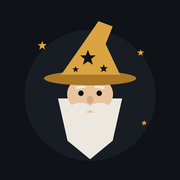
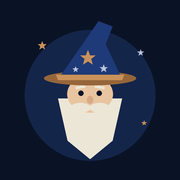
Ambiance bleu nuit et bronze, ciel étoilé, titres façon grimoire ; icône assortie
Claude-Session: https://claude.ai/code/session_0114Tvvdi8EPsuvD3sSx97T8

diff --git a/index.html b/index.html
@@ -3,7 +3,7 @@
 <head>
 <meta charset="utf-8">
 <meta name="viewport" content="width=device-width, initial-scale=1, viewport-fit=cover">
-<meta name="theme-color" content="#0f1216">
+<meta name="theme-color" content="#0a1325">
 <meta name="apple-mobile-web-app-capable" content="yes">
 <meta name="apple-mobile-web-app-status-bar-style" content="black-translucent">
 <title>Merlin</title>
@@ -12,14 +12,15 @@
 <link rel="icon" href="icon-192.png">
 <link rel="preconnect" href="https://fonts.googleapis.com">
 <link rel="preconnect" href="https://fonts.gstatic.com" crossorigin>
-<link href="https://fonts.googleapis.com/css2?family=Manrope:wght@400;500;600;700&family=IBM+Plex+Mono:wght@400;500;600&display=swap" rel="stylesheet">
+<link href="https://fonts.googleapis.com/css2?family=Cinzel:wght@500;600;700&family=Manrope:wght@400;500;600;700&family=IBM+Plex+Mono:wght@400;500;600&display=swap" rel="stylesheet">
 <style>
-/* Carnet de marché : fond encre, chiffres en mono, accent laiton. */
+/* Bibliothèque de nuit : bleu nuit, bronze, ciel étoilé ; titres façon grimoire, chiffres en mono. */
 :root{
-  --bg:#0f1216; --panel:#171b21; --panel2:#1e232b; --line:#2a313b;
-  --fg:#e9e6df; --dim:#9aa1ab; --faint:#6b737e;
-  --brass:#d9a441; --brass-soft:rgba(217,164,65,.14);
-  --up:#4cc38a; --down:#f07167; --warn:#e9b949;
+  --bg:#0a1325; --panel:#101c35; --panel2:#15244a; --line:#233766;
+  --fg:#ece6d6; --dim:#a7b2cc; --faint:#6f7fa3;
+  --brass:#c9925a; --brass-soft:rgba(201,146,90,.14);
+  --up:#5cc8a1; --down:#f07167; --warn:#e0b45c;
+  --serif:'Cinzel','Trajan Pro',Georgia,serif;
   --sans:'Manrope',system-ui,-apple-system,'Segoe UI',sans-serif;
   --mono:'IBM Plex Mono',ui-monospace,'SFMono-Regular',Menlo,monospace;
   --r:12px; --gap:12px;
@@ -38,7 +39,7 @@ header.top h1{margin:0;font-size:17px;font-weight:700;letter-spacing:.01em;flex:
 header.top h1 span{color:var(--brass)}
 .sync{font-size:12px;color:var(--dim);background:var(--panel);border:1px solid var(--line);border-radius:999px;padding:5px 10px;cursor:pointer;white-space:nowrap}
 .conn{border-radius:10px;padding:12px;display:flex;flex-direction:column;gap:4px;font-size:14px;line-height:1.45;border:1px solid var(--line);background:var(--panel2)}
-.conn.ok{border-color:rgba(76,195,138,.5);background:rgba(76,195,138,.08)} .conn.bad{border-color:rgba(240,113,103,.55);background:rgba(240,113,103,.08)}
+.conn.ok{border-color:rgba(92,200,161,.5);background:rgba(92,200,161,.08)} .conn.bad{border-color:rgba(240,113,103,.55);background:rgba(240,113,103,.08)}
 .conn b{font-size:15px}
 .banner{display:flex;gap:10px;align-items:center;justify-content:space-between;border:1px solid rgba(240,113,103,.55);background:rgba(240,113,103,.08);border-radius:var(--r);padding:12px 14px;font-size:14px;line-height:1.4}
 details.zone{border:1px solid var(--line);border-radius:10px;padding:10px 12px}
@@ -94,13 +95,13 @@ table.pos tr.click{cursor:pointer} table.pos tr.click:hover td{background:var(--
 .li .d{font-family:var(--mono);font-size:12px;color:var(--faint)}
 .li .m{min-width:0} .li .m b{display:block} .li .m span{color:var(--dim);font-size:13px;display:block;overflow:hidden;text-overflow:ellipsis;white-space:nowrap}
 .note{font-size:13px;color:var(--dim);line-height:1.5;margin:0}
-.callout{background:var(--brass-soft);border:1px solid rgba(217,164,65,.35);border-radius:10px;padding:10px 12px;font-size:14px;line-height:1.45}
+.callout{background:var(--brass-soft);border:1px solid rgba(201,146,90,.35);border-radius:10px;padding:10px 12px;font-size:14px;line-height:1.45}
 label.f{display:flex;flex-direction:column;gap:5px;font-size:13px;color:var(--dim)}
 label.f input,label.f select,label.f textarea{background:var(--panel2);border:1px solid var(--line);border-radius:9px;padding:10px 11px;color:var(--fg);font-size:15px;width:100%}
 label.f textarea{min-height:90px;resize:vertical}
 .grid2{display:grid;grid-template-columns:repeat(2,minmax(0,1fr));gap:10px}
 .sim .out{display:grid;grid-template-columns:repeat(3,minmax(0,1fr));gap:8px}
-nav.tabs{position:fixed;left:0;right:0;bottom:0;z-index:6;background:rgba(15,18,22,.96);backdrop-filter:blur(8px);border-top:1px solid var(--line);
+nav.tabs{position:fixed;left:0;right:0;bottom:0;z-index:6;background:rgba(10,19,37,.94);backdrop-filter:blur(8px);border-top:1px solid var(--line);
   display:grid;grid-template-columns:repeat(5,1fr);padding:6px max(6px,env(safe-area-inset-right,0px)) calc(6px + env(safe-area-inset-bottom,0px)) max(6px,env(safe-area-inset-left,0px))}
 nav.tabs button{background:none;border:0;color:var(--faint);display:flex;flex-direction:column;align-items:center;gap:3px;font-size:11px;font-weight:600;padding:6px 0;cursor:pointer;position:relative}
 nav.tabs button svg{width:22px;height:22px}
@@ -113,6 +114,21 @@ dialog h3{margin:0;font-size:17px}
 .toast{position:fixed;left:50%;bottom:calc(84px + env(safe-area-inset-bottom,0px));transform:translateX(-50%);background:var(--panel2);border:1px solid var(--line);padding:9px 14px;border-radius:10px;font-size:14px;z-index:20}
 .empty{color:var(--dim);font-size:14px;text-align:center;padding:24px 8px;line-height:1.5}
 @media (prefers-reduced-motion:no-preference){.card,.idea{animation:in .25s ease-out both}@keyframes in{from{opacity:.4;transform:translateY(4px)}to{opacity:1;transform:none}}}
+.card h2,.empty b{font-family:var(--serif);letter-spacing:.12em}
+header.top h1{font-family:var(--serif);font-weight:700;letter-spacing:.08em;font-size:19px}
+body{background:
+  radial-gradient(1px 1px at 12% 18%,rgba(236,230,214,.55) 50%,transparent 51%),
+  radial-gradient(1px 1px at 78% 9%,rgba(236,230,214,.45) 50%,transparent 51%),
+  radial-gradient(1.5px 1.5px at 63% 41%,rgba(201,146,90,.5) 50%,transparent 51%),
+  radial-gradient(1px 1px at 33% 67%,rgba(236,230,214,.35) 50%,transparent 51%),
+  radial-gradient(1px 1px at 88% 76%,rgba(236,230,214,.4) 50%,transparent 51%),
+  radial-gradient(1.5px 1.5px at 7% 88%,rgba(184,196,220,.45) 50%,transparent 51%),
+  radial-gradient(1200px 600px at 50% -10%,#14254a 0%,transparent 70%),
+  var(--bg);background-attachment:fixed}
+.card{background:linear-gradient(180deg,rgba(21,36,74,.55),rgba(16,28,53,.92));border-color:var(--line);box-shadow:inset 0 1px 0 rgba(201,146,90,.10)}
+.hero{border-color:rgba(201,146,90,.35)}
+.hero .big{color:var(--fg)}
+nav.tabs{border-top-color:rgba(201,146,90,.25)}
 </style>
 </head>
 <body>
@@ -152,7 +168,7 @@ dialog h3{margin:0;font-size:17px}
     <div class="card">
       <div class="row" style="justify-content:space-between"><h2>Évolution</h2>
         <div class="seg" id="ev-per" role="group" aria-label="Période"><button data-d="0" class="on">Tout</button><button data-d="365">1 A</button><button data-d="90">3 M</button></div></div>
-      <div class="row" style="gap:14px;font-size:12px"><span><i style="display:inline-block;width:14px;height:3px;background:#d9a441;vertical-align:middle;border-radius:2px"></i> Valeur</span><span class="dim"><i style="display:inline-block;width:14px;height:0;border-top:2px dashed #6b737e;vertical-align:middle"></i> Euros investis (net)</span><span style="color:#7aa2f7"><i style="display:inline-block;width:14px;height:2px;background:#7aa2f7;vertical-align:middle;border-radius:2px"></i> Cours du BTC</span></div>
+      <div class="row" style="gap:14px;font-size:12px"><span><i style="display:inline-block;width:14px;height:3px;background:#c9925a;vertical-align:middle;border-radius:2px"></i> Valeur</span><span class="dim"><i style="display:inline-block;width:14px;height:0;border-top:2px dashed #6f7fa3;vertical-align:middle"></i> Euros investis (net)</span><span style="color:#b8c4dc"><i style="display:inline-block;width:14px;height:2px;background:#b8c4dc;vertical-align:middle;border-radius:2px"></i> Cours du BTC</span></div>
       <div id="spark" style="position:relative"></div>
       <div class="rd num faint" id="ev-rd" style="font-size:12px;min-height:16px"></div>
     </div>
@@ -413,7 +429,7 @@ function renderHome(){
   var rs=rows().filter(function(r){return r.val>1;});var mx=rs.length?rs[0].val:1;
   $('compo').innerHTML=rs.map(function(r){return'<div class="bar"><span>'+esc(r.p.actif)+'</span><span class="num">'+eur(r.val)+' <span class="faint">· '+Math.round(r.val/t*100)+' %</span></span><span class="t"><i style="width:'+(r.val/mx*100)+'%"></i></span></div>';}).join('')||'<div class="empty">Aucune position. Connecte GitHub dans les réglages.</div>';
   var pi=pocketStats('investissement'),pt=pocketStats('trading'),tt=pi.val+pt.val||1,ru=realiseUsd();
-  $('poches').innerHTML=[['Investissement',pi,'#d9a441',''],['Trading',pt,'#4cc38a',' · réalisé '+(ru>=0?'+':'')+usd(ru)]].map(function(x){var st=x[1];
+  $('poches').innerHTML=[['Investissement',pi,'#c9925a',''],['Trading',pt,'#5cc8a1',' · réalisé '+(ru>=0?'+':'')+usd(ru)]].map(function(x){var st=x[1];
     return'<div class="bar"><span>'+x[0]+' <span class="'+(st.latentPct==null?'faint':st.latentPct>=0?'up':'down')+' num" style="font-size:12px">'+pct(st.latentPct)+'</span><span class="faint" style="font-size:12px">'+x[3]+'</span></span><span class="num">'+eur(st.val)+' <span class="faint">· '+Math.round(st.val/tt*100)+' %</span></span><span class="t"><i style="width:'+(st.val/tt*100)+'%;background:'+x[2]+'"></i></span></div>';}).join('');
   renderEvo();
 }
@@ -441,7 +457,7 @@ function renderEvo(){
   var X=function(d){return 4+(+new Date(d)-t0)/ts*(W-8);},Y=function(v){return H-4-v/mx*(H-10);};
   var dv='M'+h.map(function(p){return X(p.date).toFixed(1)+' '+Y(p.val).toFixed(1);}).join(' L');
   var dm='M'+h.map(function(p,i){var s=X(p.date).toFixed(1)+' '+Y(p.mise).toFixed(1);return i?'H'+X(p.date).toFixed(1)+' V'+Y(p.mise).toFixed(1):s;}).join(' ');
-  var grid=ticks.map(function(tv){var y=Y(tv);return'<line x1="0" x2="'+W+'" y1="'+y+'" y2="'+y+'" stroke="#232932" stroke-width="1" vector-effect="non-scaling-stroke"/>';}).join('');
+  var grid=ticks.map(function(tv){var y=Y(tv);return'<line x1="0" x2="'+W+'" y1="'+y+'" y2="'+y+'" stroke="#1b2b52" stroke-width="1" vector-effect="non-scaling-stroke"/>';}).join('');
   var hb=h.filter(function(p){return p.btc;});var bmxRaw=hb.length?Math.max.apply(0,hb.map(function(p){return p.btc;})):0;
   var bstp=bmxRaw?(function(v){var e=Math.pow(10,Math.floor(Math.log10(v/4)));var f=v/4/e;return(f<=1?1:f<=2?2:f<=2.5?2.5:f<=5?5:10)*e;})(bmxRaw):1;
   var YB=Y;
@@ -450,11 +466,11 @@ function renderEvo(){
   var blabels='';
   var labels=ticks.concat([0]).map(function(tv){return'<span style="position:absolute;left:0;top:calc('+(Y(tv)/H*100)+'% - 8px);font-family:var(--mono);font-size:10px;color:var(--faint);background:var(--panel);padding:0 3px 0 0;pointer-events:none">'+fk(tv)+'</span>';}).join('');
   $('spark').innerHTML='<svg class="spark" style="height:150px;touch-action:pan-y" viewBox="0 0 '+W+' '+H+'" preserveAspectRatio="none" role="img" aria-label="Évolution de la valeur et des euros investis">'+grid+
-    '<path d="'+dv+' L'+X(h[h.length-1].date)+' '+H+' L'+X(h[0].date)+' '+H+' Z" fill="rgba(217,164,65,.12)"/>'+
-    '<path d="'+dm+'" fill="none" stroke="#6b737e" stroke-width="1.5" stroke-dasharray="5 4" vector-effect="non-scaling-stroke"/>'+
-    (db?'<path d="'+db+'" fill="none" stroke="#7aa2f7" stroke-width="1.5" stroke-opacity=".85" stroke-linejoin="round" vector-effect="non-scaling-stroke"/>':'')+
-    '<path d="'+dv+'" fill="none" stroke="#d9a441" stroke-width="2" stroke-linejoin="round" stroke-linecap="round" vector-effect="non-scaling-stroke"/>'+
-    '<line id="ev-cur" x1="0" x2="0" y1="0" y2="'+H+'" stroke="#9aa1ab" stroke-width="1" vector-effect="non-scaling-stroke" visibility="hidden"/></svg>'+'<div style="position:absolute;inset:0 0 auto 0;height:150px;pointer-events:none">'+labels+blabels+'</div>'+
+    '<path d="'+dv+' L'+X(h[h.length-1].date)+' '+H+' L'+X(h[0].date)+' '+H+' Z" fill="rgba(201,146,90,.12)"/>'+
+    '<path d="'+dm+'" fill="none" stroke="#6f7fa3" stroke-width="1.5" stroke-dasharray="5 4" vector-effect="non-scaling-stroke"/>'+
+    (db?'<path d="'+db+'" fill="none" stroke="#b8c4dc" stroke-width="1.5" stroke-opacity=".85" stroke-linejoin="round" vector-effect="non-scaling-stroke"/>':'')+
+    '<path d="'+dv+'" fill="none" stroke="#c9925a" stroke-width="2" stroke-linejoin="round" stroke-linecap="round" vector-effect="non-scaling-stroke"/>'+
+    '<line id="ev-cur" x1="0" x2="0" y1="0" y2="'+H+'" stroke="#a7b2cc" stroke-width="1" vector-effect="non-scaling-stroke" visibility="hidden"/></svg>'+'<div style="position:absolute;inset:0 0 auto 0;height:150px;pointer-events:none">'+labels+blabels+'</div>'+
     '<div class="row num faint" style="justify-content:space-between;font-size:12px"><span>'+esc(h[0].date.slice(0,7))+'</span><span>max '+eur(Math.max.apply(0,h.map(function(p){return p.val;})))+'</span><span>'+esc(h[h.length-1].date.slice(0,7))+'</span></div>';
   evRead(null);
 }
@@ -727,9 +743,9 @@ function renderMk(){
     var W=600,H=70,vs=p.map(function(x){return x[1];}),mn=Math.min.apply(0,vs),mx=Math.max.apply(0,vs),sp=mx-mn||1;
     var xy=p.map(function(x,i){return[(i/(p.length-1))*(W-4)+2,H-4-((x[1]-mn)/sp)*(H-8)];});
     var d='M'+xy.map(function(q){return q[0].toFixed(1)+' '+q[1].toFixed(1);}).join(' L');
-    var ch=vs[vs.length-1]/vs[0]-1,col=ch>=0?'#4cc38a':'#f07167';
+    var ch=vs[vs.length-1]/vs[0]-1,col=ch>=0?'#5cc8a1':'#f07167';
     return'<div class="mk" data-k="'+m.k+'"><div class="hd"><b>'+m.t+'</b><span class="v">'+m.f(vs[vs.length-1])+'</span><span class="c '+(ch>=0?'up':'down')+'">'+(ch>=0?'+':'')+(ch*100).toFixed(1).replace('.',',')+' %</span></div>'+
-      '<svg viewBox="0 0 '+W+' '+H+'" preserveAspectRatio="none" role="img" aria-label="'+m.t+' sur la période"><path d="'+d+' L'+(W-2)+' '+H+' L2 '+H+' Z" fill="'+col+'" fill-opacity=".10"/><path d="'+d+'" fill="none" stroke="'+col+'" stroke-width="2" stroke-linejoin="round" vector-effect="non-scaling-stroke"/><line class="cur" x1="0" x2="0" y1="0" y2="'+H+'" stroke="#9aa1ab" stroke-width="1" vector-effect="non-scaling-stroke" visibility="hidden"/></svg>'+
+      '<svg viewBox="0 0 '+W+' '+H+'" preserveAspectRatio="none" role="img" aria-label="'+m.t+' sur la période"><path d="'+d+' L'+(W-2)+' '+H+' L2 '+H+' Z" fill="'+col+'" fill-opacity=".10"/><path d="'+d+'" fill="none" stroke="'+col+'" stroke-width="2" stroke-linejoin="round" vector-effect="non-scaling-stroke"/><line class="cur" x1="0" x2="0" y1="0" y2="'+H+'" stroke="#a7b2cc" stroke-width="1" vector-effect="non-scaling-stroke" visibility="hidden"/></svg>'+
       '<div class="rd">'+esc(p[0][0])+' → '+esc(p[p.length-1][0])+' · min '+m.f(mn)+' · max '+m.f(mx)+'</div></div>';}).join('');
 }
 function mkRead(e){var box=e.target.closest('.mk');if(!box||!box.dataset.k)return;var p=mkPts[box.dataset.k];if(!p)return;

diff --git a/sw.js b/sw.js
@@ -1,5 +1,5 @@
 // Merlin : met l'appli en cache pour l'ouvrir hors ligne. Les cours et la synchro passent toujours par le réseau.
-const CACHE = 'merlin-v12';
+const CACHE = 'merlin-v13';
 const FILES = ['./', './index.html', './manifest.json', './icon-192.png', './icon-512.png', './apple-touch-icon.png'];
 self.addEventListener('install', e => { e.waitUntil(caches.open(CACHE).then(c => c.addAll(FILES.map(f => new Request(f, {cache: 'reload'}))))); self.skipWaiting(); });
 self.addEventListener('activate', e => { e.waitUntil(caches.keys().then(ks => Promise.all(ks.filter(k => k !== CACHE).map(k => caches.delete(k))))); self.clients.claim(); });
